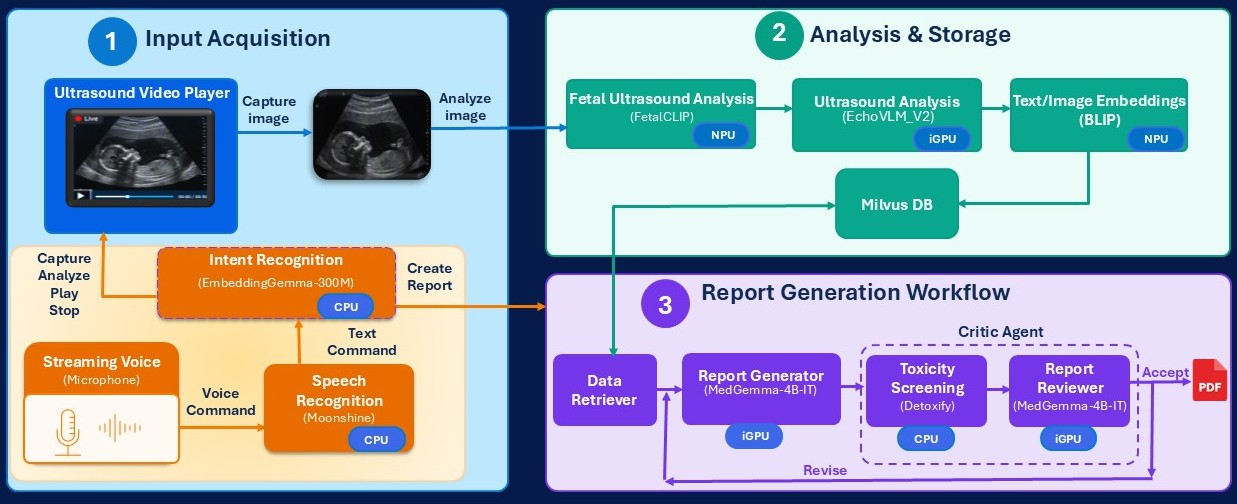
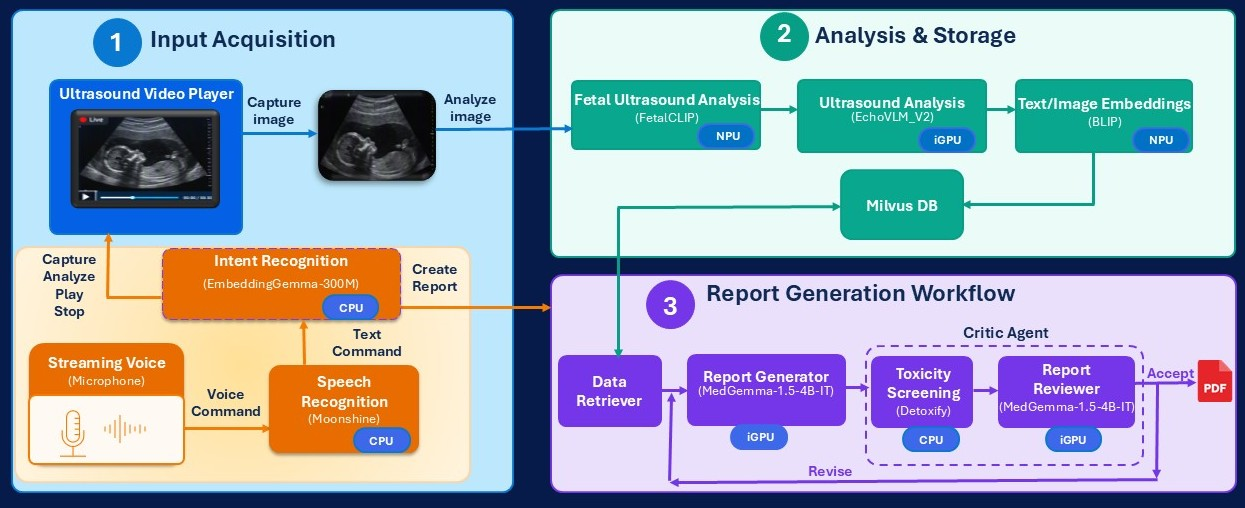
doc: add model preparation steps to readme (#1222)
---
Original author: Ramesh Perumal <108772830+rameshpe@users.noreply.github.com>

diff --git a/samples/agentic-ultrasound-analyzer/README.md b/samples/agentic-ultrasound-analyzer/README.md
@@ -9,7 +9,8 @@
   - [Validated Hardware](#validated-hardware)  
   - [Validated Software](#validated-software)  
   - [Latency Benchmark Summary](#latency-benchmark-summary)  
-- [Get Started](#get-started)  
+- [Get Started](#get-started)
+  - [Prerequisites](#prerequisites)  
   - [Windows](#windows)  
   - [Linux](#linux)
 
@@ -77,8 +78,50 @@ The system is deployed within a **Intel® Core™ Ultra-based edge device**.
 ### Prerequisites
 | OS | Tools |
 |--------------|-------------------------------------------|
-| Windows 11   | Docker Desktop or WSL2, Python: 3.12-3.14 |
+| Windows 11   | [Docker Desktop](https://docs.docker.com/desktop/setup/install/windows-install/) or WSL2, Python: 3.12-3.14 |
 | Ubuntu 24.04 | Docker, Python: 3.12-3.14 |  
+
+#### Preparing Models
+##### Report Generation Model
+Run the following steps after installing the application dependencies.
+- Accept MedGemma's license on Hugging Face using your account   
+To access [MedGemma-1.5-4b-it](https://huggingface.co/google/medgemma-1.5-4b-it) model, make sure that you have an account on Hugging Face, accept the license on the model card and create your access token. Login with your Hugging Face account using the access token as below.
+```
+hf auth login
+``` 
+- Convert model into OpenVINO's intermediate represenation format with INT4 precision
+```
+cd scripts
+optimum-cli export openvino --model google/medgemma-1.5-4b-it --weight-format int4 --ratio 1.0 --group-size 128 models/medgemma-1.5-4b-it-ov-int4
+```
+##### Fetal Ultrasound Analysis Model
+- Download FetalCLIP model weights
+```
+hf download numansaeed/fetalclip-model FetalCLIP_weights.pt --local-dir common/fetalclip
+```
+- Convert FetalCLIP into OpenVINO's intermediate representation format
+```
+python common/fetalclip/export_openvino.py --output-model-path models/fetalclip-ov-fp16/fetalclip_image_encoder.xml
+```
+##### Ultrasound Analysis Model
+- Download EchoVLM_v2 model
+```
+hf download chaoyinshe/EchoVLM_v2 --local-dir models/echovlm-v2
+```
+- Set mtp_num_hidden_layers to 0 in models/echovlm-v2/config.json
+
+- Install model-specific depdencies in the existing virtual environment
+```
+pip install --force-reinstall "optimum[openvino]==2.3.0" "transformers==5.2.0"
+```
+- Convert EchoVLM_v2 into OpenVINO's intermediate represenation format with INT4 precision
+```
+optimum-cli export openvino --model models/echovlm-v2 --weight-format int4 --ratio 1.0 --group-size 128 --task image-text-to-text models/echovlm-v2-ov-int4
+```
+- Revert back optimum and transformers to the latest version
+```
+pip install --force-reinstall "optimum-intel[openvino] @ git+https://github.com/huggingface/optimum-intel.git@2092b03709e72a73ec097c7ef61da620cced6963" "transformers>=5.15,<5.16"
+```
 
 ### Installation 
 #### Windows  
@@ -87,7 +130,7 @@ Follow the setup steps in sequence:
 1) Install dependencies
 ```
 .\install_dependencies.bat
-```   
+```
 2) Start backend server
 ```
 cd scripts
